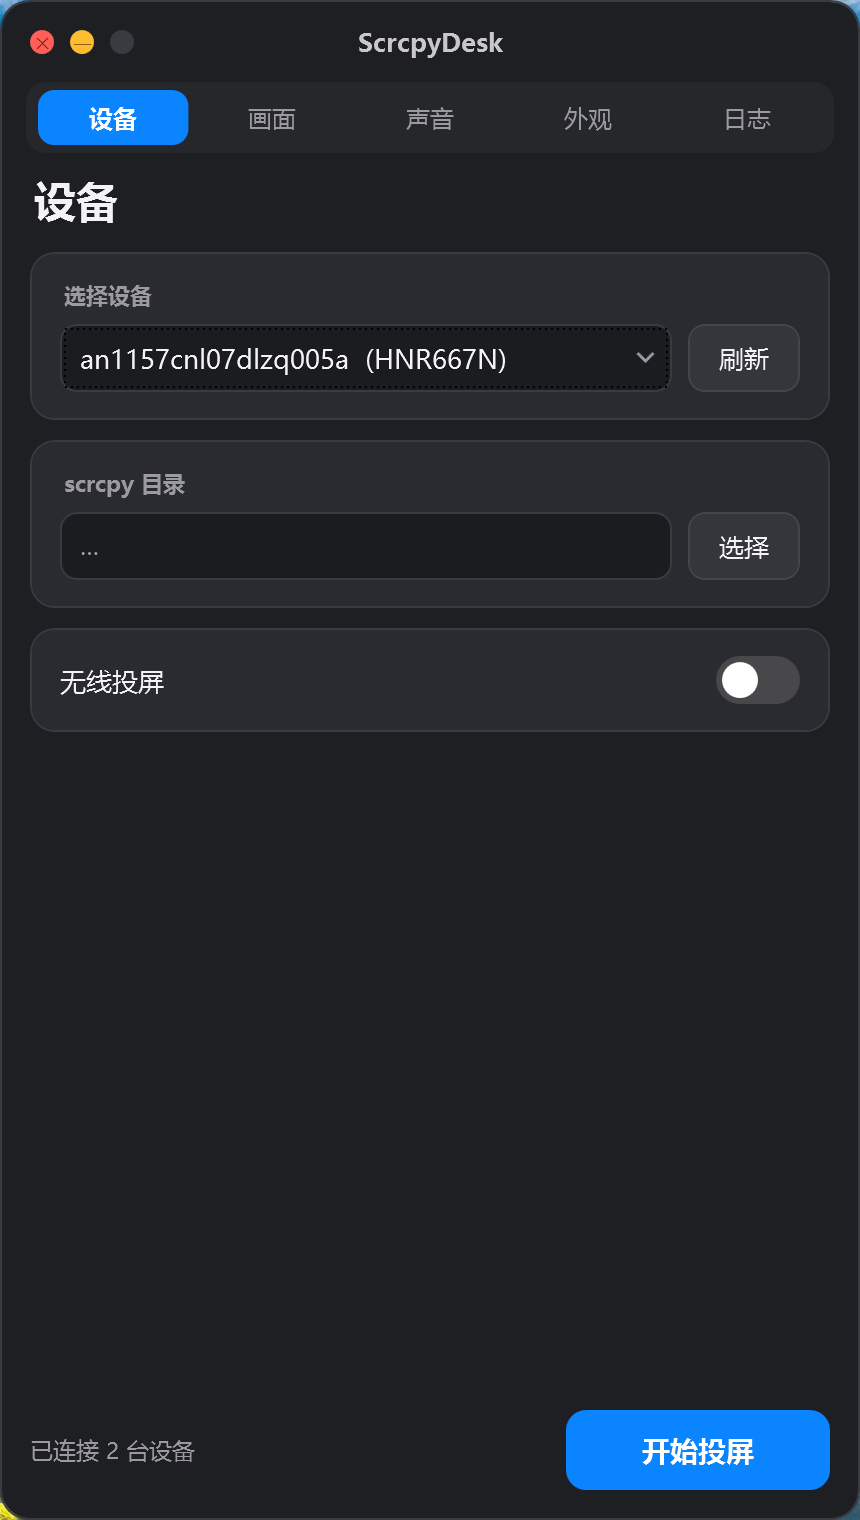
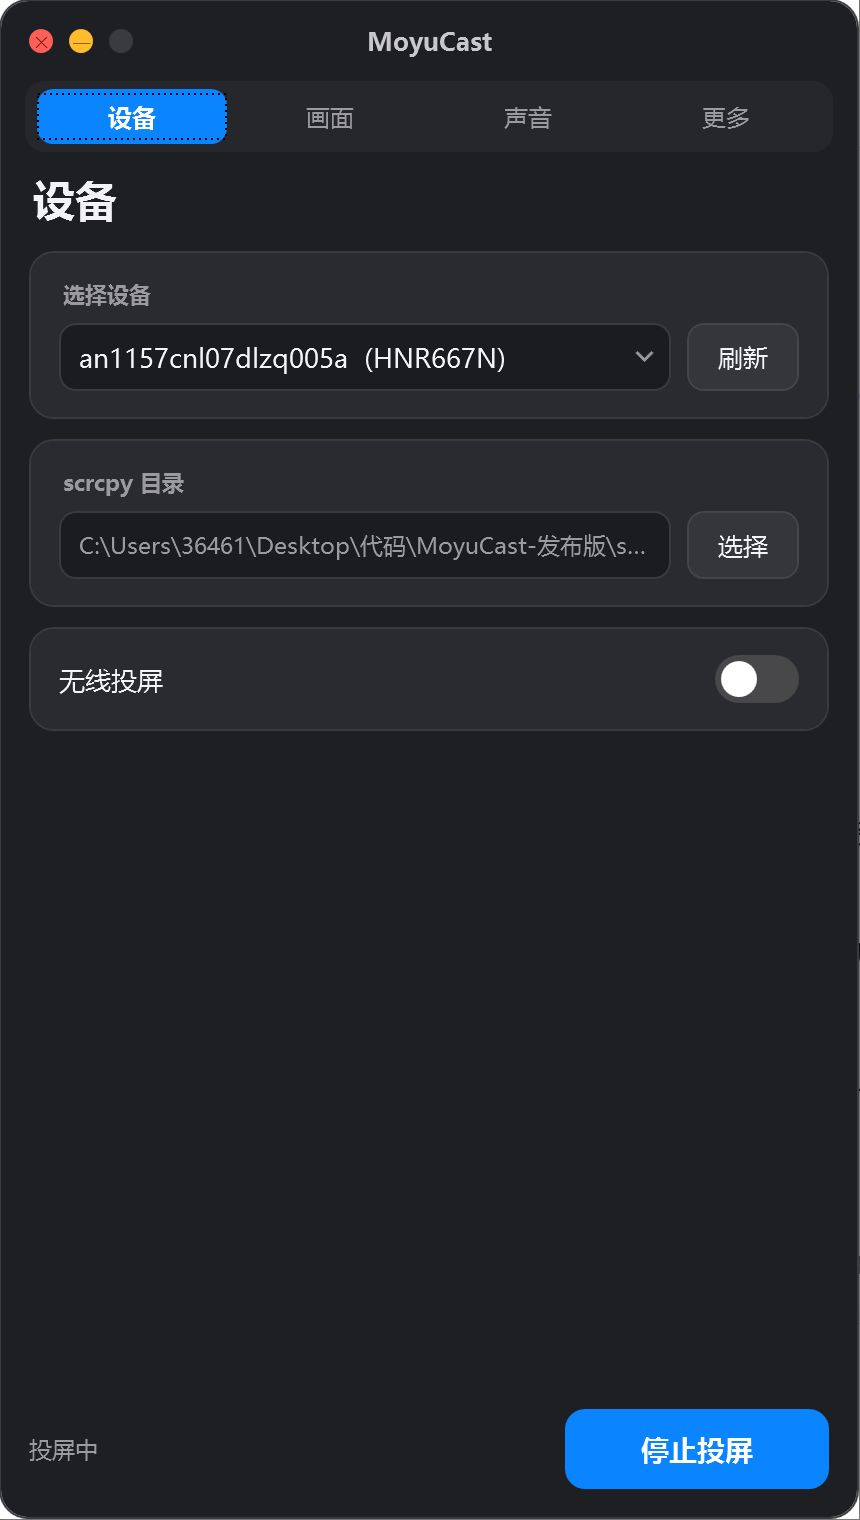
docs: refresh screenshots for the 4-tab UI (device/display/audio/more)

diff --git a/README.md b/README.md
@@ -42,12 +42,13 @@
 ## 界面预览
 
 <p align="center">
-  <img src="docs/screenshots/device.png" width="30%" alt="设备页" />
-  <img src="docs/screenshots/display.png" width="30%" alt="画面页" />
-  <img src="docs/screenshots/appearance.png" width="30%" alt="外观页" />
+  <img src="docs/screenshots/device.png" width="23%" alt="设备页" />
+  <img src="docs/screenshots/display.png" width="23%" alt="画面页" />
+  <img src="docs/screenshots/audio.png" width="23%" alt="声音页" />
+  <img src="docs/screenshots/more.png" width="23%" alt="更多页" />
 </p>
 <p align="center">
-  <img src="docs/screenshots/mirror.png" width="34%" alt="投屏窗口" />
+  <img src="docs/screenshots/mirror.png" width="40%" alt="投屏窗口" />
 </p>
 
 ## 为什么不用原版 scrcpy
@@ -227,12 +228,13 @@ Press it again and everything comes back exactly as it was: same size, same posi
 ## Screenshots
 
 <p align="center">
-  <img src="docs/screenshots/device.png" width="30%" alt="Device tab" />
-  <img src="docs/screenshots/display.png" width="30%" alt="Display tab" />
-  <img src="docs/screenshots/appearance.png" width="30%" alt="Appearance tab" />
+  <img src="docs/screenshots/device.png" width="23%" alt="Device tab" />
+  <img src="docs/screenshots/display.png" width="23%" alt="Display tab" />
+  <img src="docs/screenshots/audio.png" width="23%" alt="Audio tab" />
+  <img src="docs/screenshots/more.png" width="23%" alt="More tab" />
 </p>
 <p align="center">
-  <img src="docs/screenshots/mirror.png" width="34%" alt="Mirror window" />
+  <img src="docs/screenshots/mirror.png" width="40%" alt="Mirror window" />
 </p>
 
 ## Why not plain scrcpy
@@ -380,6 +382,7 @@ This project is only a GUI wrapper around scrcpy. It does not modify or crack an
 Powered by [scrcpy](https://github.com/Genymobile/scrcpy) · [FFmpeg](https://ffmpeg.org/) · [SDL2](https://www.libsdl.org/)
 
 </div>
+
 
 
 
